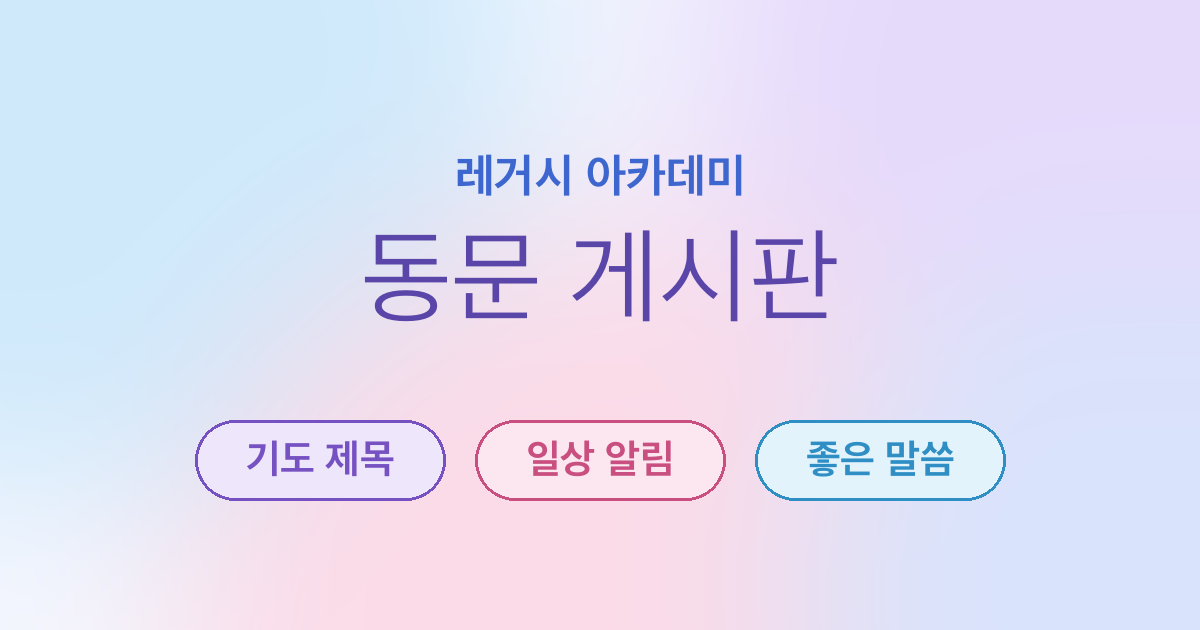
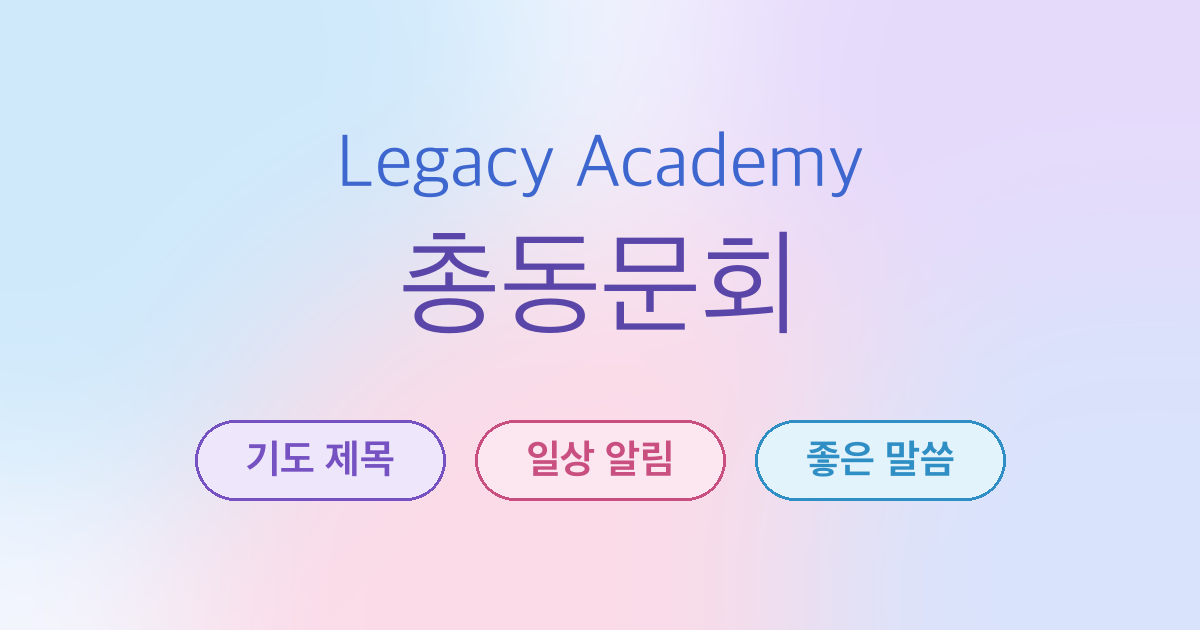
제목을 Legacy Academy 총동문회로 바꾸고 큰 글씨를 기본으로

Changed region(s): [[0.3083, 0.3619, 0.7092, 0.5429], [0.2775, 0.2111, 0.74, 0.3317]]

diff --git a/index.html b/index.html
@@ -1,11 +1,11 @@
 <!doctype html>
-<html lang="ko">
+<html lang="ko" class="big">
 <head>
 <meta charset="utf-8">
 <meta name="viewport" content="width=device-width, initial-scale=1, viewport-fit=cover">
-<title>레거시 아카데미 동문 게시판</title>
-<meta name="description" content="기도 제목, 일상 알림, 좋은 말씀을 함께 나누는 동문 게시판입니다.">
-<meta property="og:title" content="레거시 아카데미 동문 게시판">
+<title>Legacy Academy 총동문회</title>
+<meta name="description" content="기도 제목, 일상 알림, 좋은 말씀을 함께 나누는 Legacy Academy 총동문회 게시판입니다.">
+<meta property="og:title" content="Legacy Academy 총동문회">
 <meta property="og:description" content="기도 제목 · 일상 알림 · 좋은 말씀을 함께 나눠요">
 <meta property="og:type" content="website">
 <meta property="og:image" content="https://eunseo9311.github.io/legacy-board/og.png">
@@ -185,11 +185,11 @@
 <body>
 <div class="wrap">
   <header class="top">
-    <a class="brand" href="#/">레거시 아카데미</a>
-    <button class="fontbtn" id="fontbtn" type="button">글자 크게</button>
+    <a class="brand" href="#/">Legacy Academy</a>
+    <button class="fontbtn" id="fontbtn" type="button">글자 작게</button>
   </header>
   <main id="app"><p class="empty">불러오는 중이에요…</p></main>
-  <footer>레거시 아카데미 동문회</footer>
+  <footer>Legacy Academy 총동문회</footer>
 </div>
 <div class="toast" id="toast" role="status" aria-live="polite"></div>
 
@@ -244,21 +244,21 @@ const postUrl = (id) => location.origin + location.pathname + "#/p/" + id;
 /* 글자 크기 */
 const fontBtn = document.getElementById("fontbtn");
 function applyFont() {
-  const big = ls.get("lb.big") === "1";
+  const big = ls.get("lb.small") !== "1";
   document.documentElement.classList.toggle("big", big);
   fontBtn.textContent = big ? "글자 작게" : "글자 크게";
 }
-fontBtn.onclick = () => { ls.set("lb.big", ls.get("lb.big") === "1" ? "0" : "1"); applyFont(); };
+fontBtn.onclick = () => { ls.set("lb.small", ls.get("lb.small") === "1" ? "0" : "1"); applyFont(); };
 applyFont();
 
 /* 나누기: 휴대폰에서는 카카오톡을 고를 수 있는 창이 뜨고, 안 되면 링크를 복사합니다 */
 async function share(p) {
   const b = BOARDS[p.board];
   const first = p.text.length > 80 ? p.text.slice(0, 80) + "…" : p.text;
-  const text = `[레거시 아카데미 · ${b.name}]\n${p.tag ? `(${p.tag}) ` : ""}${p.name}님\n${first}`;
+  const text = `[Legacy Academy 총동문회 · ${b.name}]\n${p.tag ? `(${p.tag}) ` : ""}${p.name}님\n${first}`;
   const url = postUrl(p.id);
   if (navigator.share) {
-    try { await navigator.share({ title: `레거시 아카데미 · ${b.name}`, text, url }); return; }
+    try { await navigator.share({ title: `Legacy Academy 총동문회 · ${b.name}`, text, url }); return; }
     catch (e) { if (e.name === "AbortError") return; }
   }
   try {
@@ -287,7 +287,7 @@ function itemHtml(p, showBoard) {
 function viewHome() {
   app.innerHTML = `
     <section class="hero">
-      <h1>동문 게시판</h1>
+      <h1>Legacy Academy<br>총동문회</h1>
       <p>기도 제목과 소식, 좋은 말씀을 함께 나눠요</p>
       ${isDemo ? `<div class="banner">체험 모드예요. 여기서 쓴 글은 이 휴대폰에만 남아요.</div>` : ""}
     </section>

diff --git a/README.md b/README.md
@@ -1,4 +1,4 @@
-# 레거시 아카데미 동문 게시판
+# Legacy Academy 총동문회 게시판
 
 동문회 카카오톡 대화방과 함께 쓰는 게시판입니다. 게시판은 세 가지입니다.
 
